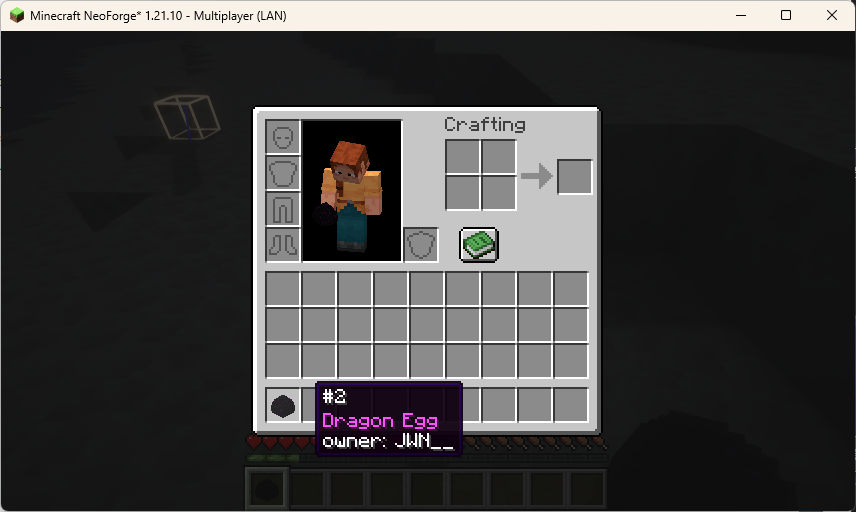
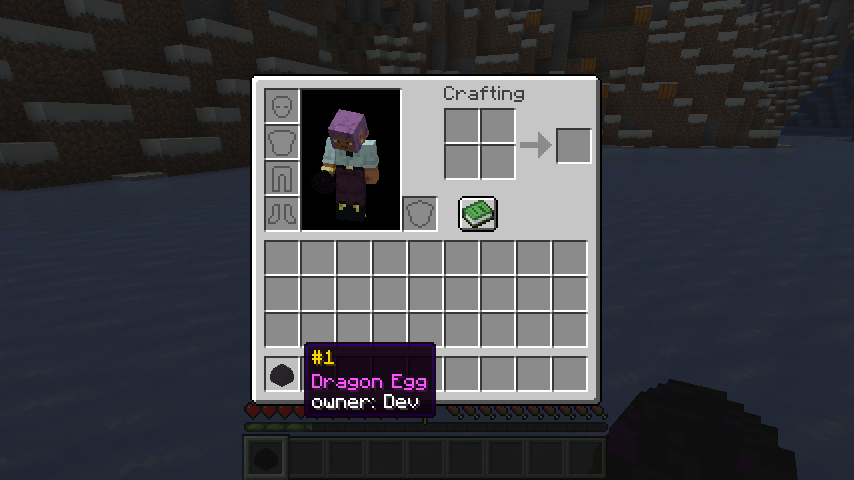
20251231

diff --git a/pages/Minecraft_Mods_JWN's So many dragon eggs Mod.html b/pages/Minecraft_Mods_JWN's So many dragon eggs Mod.html
@@ -41,7 +41,10 @@
                 드래곤 알은 기본적으로 첫번째 드래곤을 잡았을 때에만 엔더의 출구 차원문 상단에 생성됩니다. 
                 이 모드는 더 이상 이러한 방식으로 드래곤 알을 생성하지 않습니다.
                 대신, 드래곤을 잡을 때마다 '마지막으로 드래곤에게 공격을 가한 플레이어'에게 드래곤 알을 지급합니다.
-                <img src="../assets/img/20251227_004.png" alt="20251227_004.png" width="700px">
+                <div class="img-row">
+                    <img src="../assets/img/20251227_004.png" alt="20251227_004.png">
+                    <img src="../assets/img/20251231_001.png" alt="20251231_001.png">
+                </div>
                 월드에서 몇번째로 드래곤을 잡았는지, 누가 마지막으로 공격을 가했는지를 확인할 수 있습니다.
             </p>
             <h2>버전 기록</h2>
@@ -49,9 +52,14 @@
             <ul>
                 <li>기본 기능 구현 완료</li>
             </ul>
+            <h3>0.0.2</h3>
+            <ul>
+                <li>드래곤 알이 낙하 또는 텔레포트할 때 저장된 데이터가 손실되는 버그 수정</li>
+                <li>드래곤 알 위에 순위&이름 이름표가 나오도록 기능 추가</li>
+            </ul>
             <h2>자료실</h2>
             <a href="../assets/files/jwnssomanydragoneggs-0.0.1.jar" download class="mod-jar-download">jwnssomanydragoneggs-0.0.1</a>
-            <a href="../assets/files/jwnssomanydragoneggs-0.0.1.jar" download class="mod-jar-download">jwnssomanydragoneggs-0.0.1</a>
+            <a href="../assets/files/jwnmanyegg-0.0.2.jar" download class="mod-jar-download">jwnmanyegg-0.0.2</a>
             <small>* Click to download</small>
             <p>또는 <code>git clone</code> 이후 직접 <code>./gradlew build</code>해도 됨</p>
         </main>

diff --git a/build/bulid_index.py b/build/bulid_index.py
@@ -25,6 +25,8 @@ def generate_post_data():
                     "categories": categories,
                     "url": f"./pages/{filename}"
                 })
+                
+                print(date_text, title)
     
     # 최신순 정렬
     post_list.sort(key=lambda x: x['date'], reverse=True)
@@ -32,4 +34,8 @@ def generate_post_data():
     with open('./assets/posts.json', 'w', encoding='utf-8') as f:
         json.dump(post_list, f, ensure_ascii=False, indent=4)
 
+print("BUILD START")
+print("============")
 generate_post_data()
+print("============")
+print("DONE")
